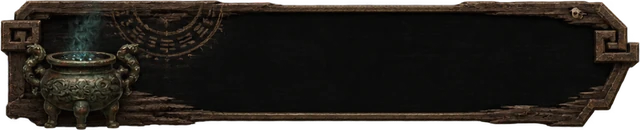
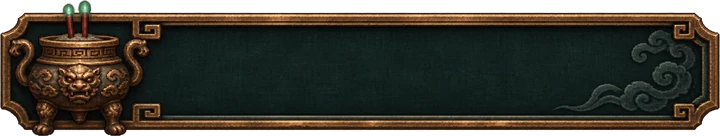
Sảnh: khung đỏ mặt quỷ cho Quỷ Môn Quan, khung xanh đen lư hương cho Thần Giáng Đàn
Claude-Session: https://claude.ai/code/session_01HhwpkWTKDeewzwcH8eUQBF

diff --git a/game/index.html b/game/index.html
@@ -2327,6 +2327,11 @@ html body #lobby #lbAltar .lbtag.lbtag{--bh:.0451;left:34.5%!important;top:57.4%
 html body #lobby #lbDoor .lbtag.lbtag{--bh:.0486;top:57.4%!important}
 @media (max-width:720px){html body #lobby .lbgrid.lbgrid.g7>.lbt.off>.lbofft{top:-4%!important}}
 html body #lobby .lbgrid.lbgrid.g7>.lbt.off>.lbofft{white-space:nowrap!important;width:max-content!important;height:auto!important;line-height:1.1!important}
+/* 29/11 chủ game: khung đỏ mặt quỷ cho Quỷ Môn Quan, khung xanh đen lư hương cho Thần Giáng Đàn (cong_cu/claude/sanh_bien2_build.py). Mặt quỷ/lư hương nhô ra trên-dưới thân biển nên --bh lớn hơn để thân biển cỡ như cũ; --pl chừa chỗ hình trang trí trái, --pr chừa bùa giấy/mây bên phải. */
+html body #lobby #lbDoor .lbtag.lbtag{--bh:.06;--ba:4.832;--pl:1.12;--pr:.5;--pt:.03;--h:max(calc(var(--sh,700px)*var(--bh)),31px)!important}
+html body #lobby #lbAltar .lbtag.lbtag{--bh:.053;--ba:5.294;--pl:1.2;--pr:.9;--pt:.05;--h:max(calc(var(--sh,700px)*var(--bh)),30px)!important}
+html body #lobby #lbAltar .lbtag.lbtag,html body #lobby #lbDoor .lbtag.lbtag{overflow:visible!important}
+@media (max-height:270px){html body #lobby #lbAltar .lbtag.lbtag{left:41.6%!important}}
 </style>
 <style id="lbVh">/* 29/11 iPhone Safari ngang: khi thanh công cụ thu lại, position:fixed;inset:0 chỉ cao bằng khung NHỎ (thiếu ~63px dưới đáy) nên sảnh hở dải đen dưới và mất phần trên. Dùng chiều cao khung ĐỘNG. */
 html body #lobby:not([hidden]){top:0!important;bottom:auto!important;height:100%!important;height:100dvh!important;min-height:100%!important}

diff --git a/cong_cu/claude/sanh_bien2_build.py b/cong_cu/claude/sanh_bien2_build.py
@@ -1,0 +1,23 @@
+"""Tách ảnh 2 khung (chủ game 29/11): khung đỏ mặt quỷ -> bien_quymon.webp, khung xanh đen lư hương -> bien_thangiang.webp.
+Chạy: python3 -I cong_cu/claude/sanh_bien2_build.py [ảnh gốc] [thư mục ra]"""
+import sys
+from PIL import Image, ImageChops
+src = sys.argv[1] if len(sys.argv) > 1 else 'nguon/master_amgioi/sanh_bien/khung_do_xanh_goc.png'
+out = sys.argv[2] if len(sys.argv) > 2 else 'game/assets/ui/lobby'
+im = Image.open(src).convert('RGBA')
+def shrink(c, w):
+    r, g, b, a = c.split()
+    pm = Image.merge('RGBA', (ImageChops.multiply(r, a), ImageChops.multiply(g, a), ImageChops.multiply(b, a), a))
+    pm = pm.resize((w, round(c.height * w / c.width)), Image.LANCZOS)
+    px = pm.load()
+    for y in range(pm.height):
+        for x in range(pm.width):
+            R, G, B, A = px[x, y]
+            px[x, y] = (0, 0, 0, 0) if A < 8 else (min(255, R * 255 // A), min(255, G * 255 // A), min(255, B * 255 // A), A)
+    return pm
+for name, box in (('bien_quymon', (0, 0, im.width, 450)), ('bien_thangiang', (0, 450, im.width, im.height))):
+    c = im.crop(box)
+    bb = c.split()[3].point(lambda v: 255 if v > 20 else 0).getbbox()
+    c = shrink(c.crop(bb), 720)
+    c.save(f'{out}/{name}.webp', quality=90, method=6)
+    print(name, bb, c.size, round(c.width / c.height, 3))

diff --git a/CLAUDE.md b/CLAUDE.md
@@ -978,3 +978,4 @@ Quyết định (chủ game không chọn riêng nên lấy đề xuất): hình
   - **Q:** dải Hồng Tuyến đã có từ trước. Thêm: khi đạn xuyên trúng quái thứ 2 trở đi, fx `htlink` vẽ một dải Hồng Tuyến ngắn nối quái trúng trước với quái vừa trúng, trong 0,25 s (`p._lh` trong vòng va chạm `pproj`).
   - **F "tàng hình":** nguyên nhân là lớp decal chỉ được vẽ trong `drawGroundMap` (map có nền đất mới), còn map Luyện Công đi đường `drawWorld` cũ nên KHÔNG BAO GIỜ thấy decal (hố F, hố R). Đã tách thành `drawDecals(c)`, gọi ở cả hai đường. F nay: hố rộng 210, độ đục 0,9, 3,0 s (bỏ nhịp sáng), 2 vòng sóng vàng/cam 20→140 px trong 0,25 s (vòng sau trễ 0,06 s).
   - **R:** ảnh bàn tay mới chụp xuống (ngón ở đáy) `qc_palm.webp` 435×495 (gốc `vfx_r_giant_exorcist_palm_chup_xuong.png`). Bàn tay rộng 360 (giới hạn 75% chiều cao vùng nhìn để vừa màn điện thoại), không xoay/lật, đầu ngón chạm tâm hố +26; rơi 0,55→0,70 s cubic-in từ cao 260; sát thương 0,70 s; giữ yên tới 1,15 s; mờ 1,15→1,55 s cùng hố (hố rộng 340, decal có `fo` = cửa sổ mờ). 7 khói mềm ở đầu ngón. **KHÔNG làm hit-stop 3 khung** (luật 5). Test `node cong_cu/claude/test28/quyen_luyencong.js <ra> [WxH]` (Luyện Công: F, R, Q). Ảnh `nguon/tham_chieu/quyen_F_R_luyen_cong_29-11.png`.
+- (29/11) **Biển Quỷ Môn Quan và Thần Giáng Đàn đổi sang 2 khung mới của chủ game** (ảnh `nguon/master_amgioi/sanh_bien/khung_do_xanh_goc.png`, tách bằng `python3 -I cong_cu/claude/sanh_bien2_build.py`): khung đỏ mặt quỷ → `bien_quymon.webp` (720×149), khung xanh đen lư hương → `bien_thangiang.webp` (720×136), giữ tên file cũ nên hành động bấm không đổi (cổng hé + khói + mắt đỏ → Âm Giới; Thần Giáng Đàn → Chiêu Mộ). CSS cuối `<style id="sanhBien">`: `--bh/--ba/--pl/--pr/--pt` mới, cao tối thiểu 31/30 px (phải có `!important` trên biến `--h` vì luật gốc ưu tiên cao hơn), màn ≤270 px cao dời Thần Giáng Đàn 41,6% cho khỏi chạm khung hồ sơ. Đo 8 cỡ: chữ trong lòng khung, không tràn. Ảnh `nguon/tham_chieu/sanh_khung_do_xanh_*_29-11.png`.
